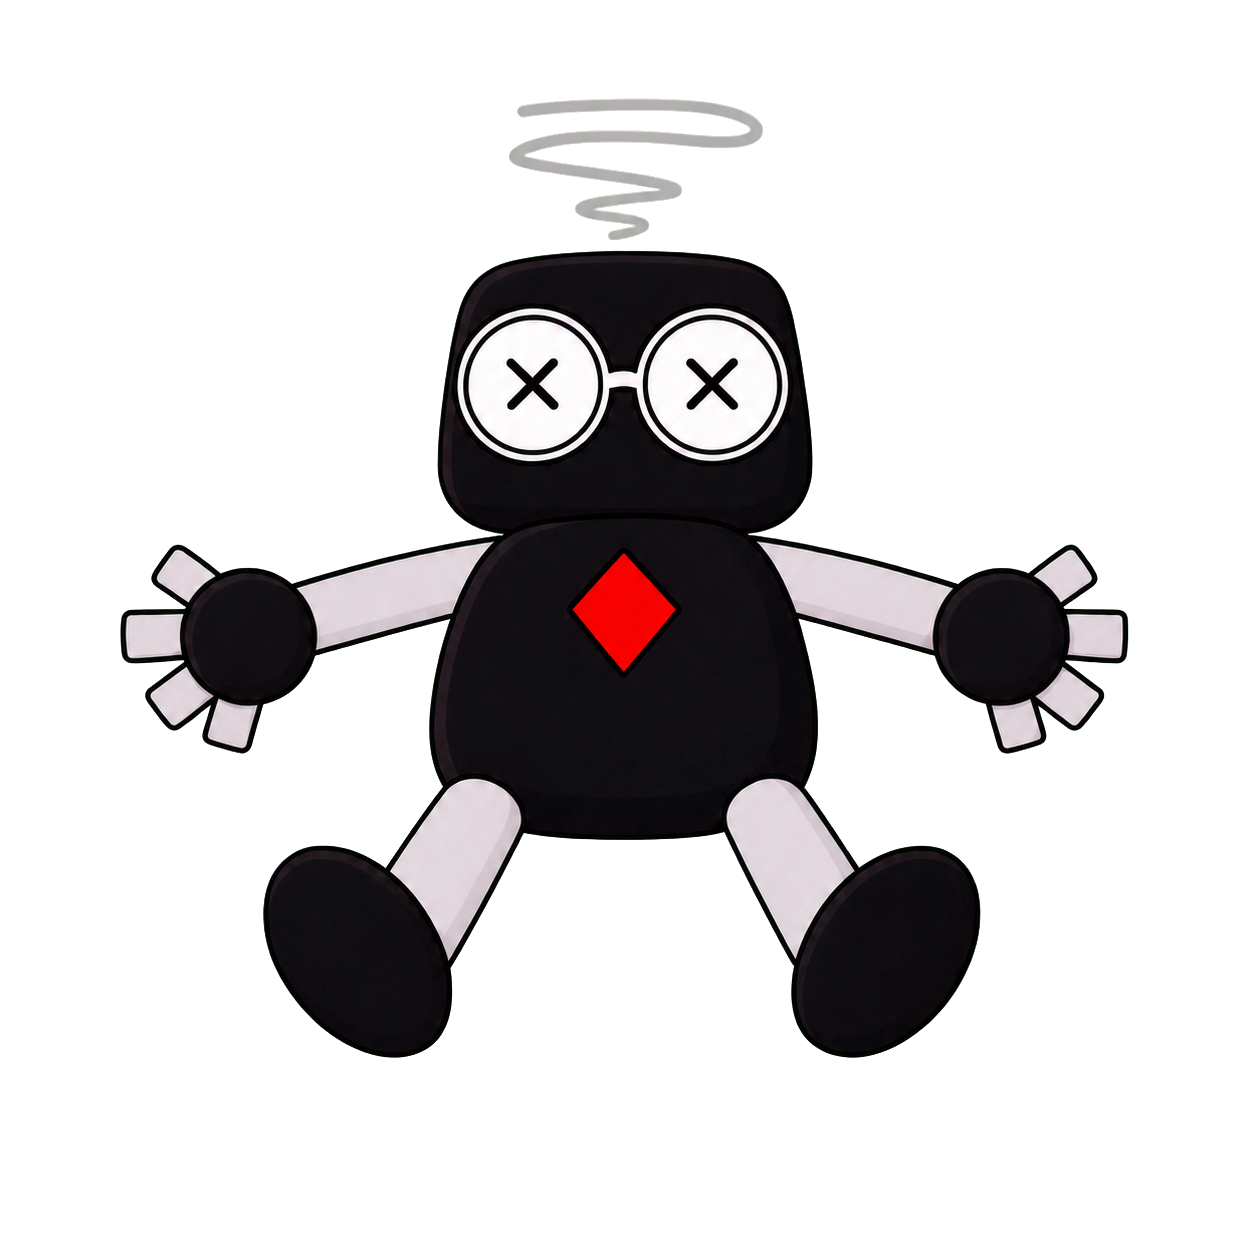
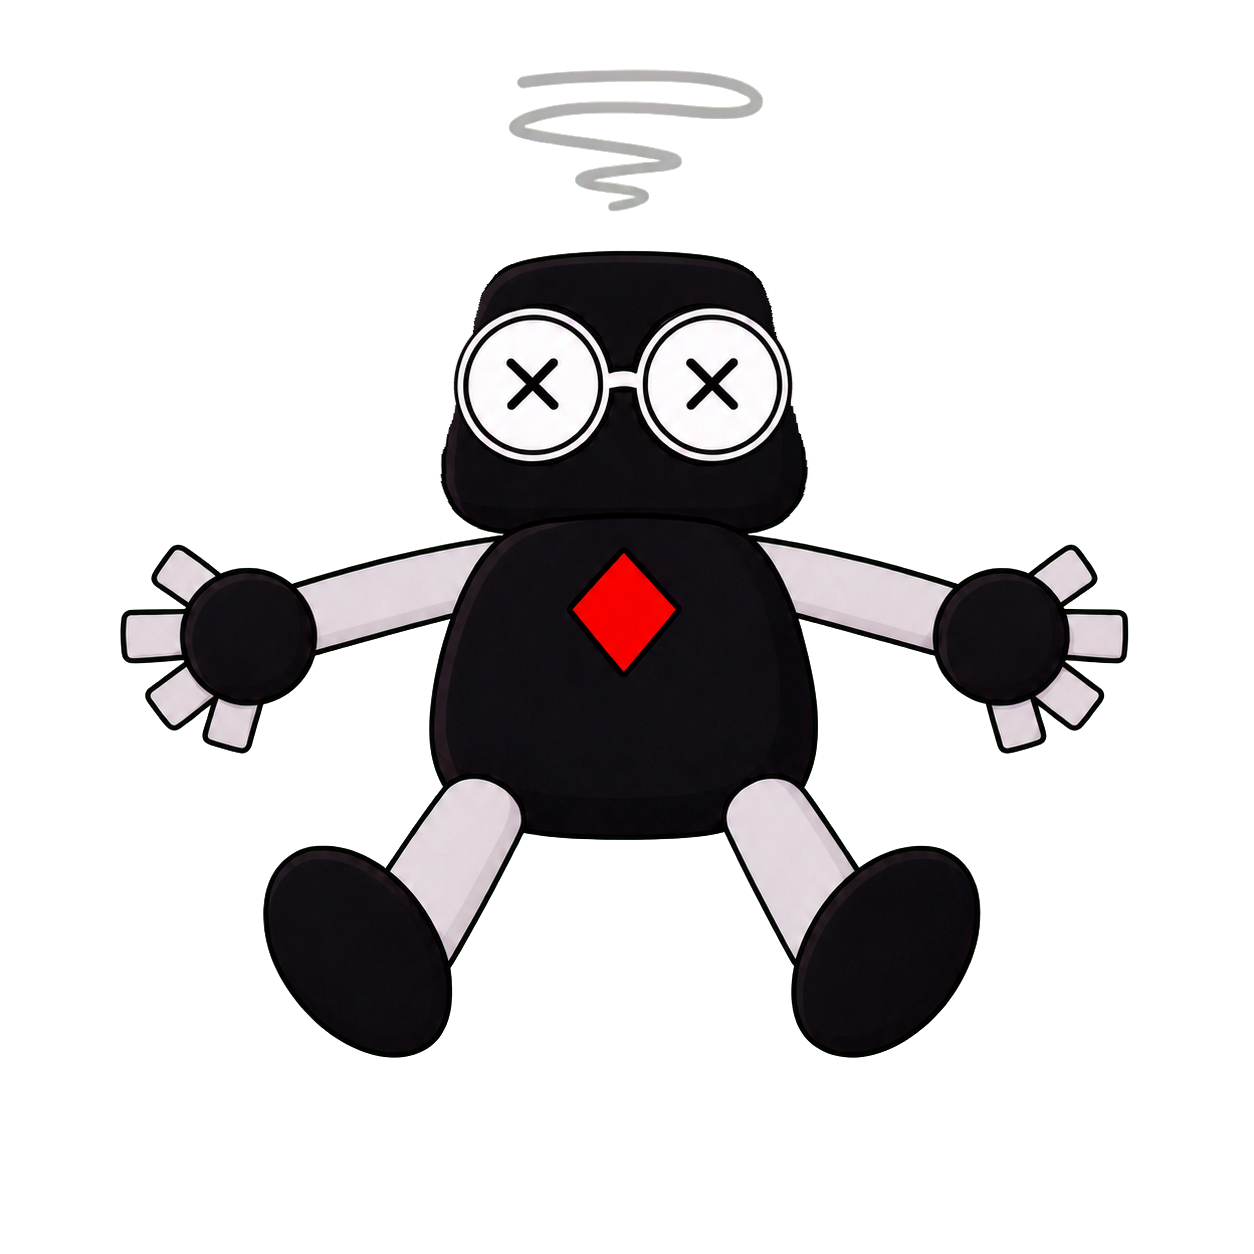
feat: refine ded sticker and generation guidance

diff --git a/docs/prompts/tkrobot-sticker-guidelines.md b/docs/prompts/tkrobot-sticker-guidelines.md
@@ -6,7 +6,7 @@ Use these rules whenever generating or editing T Krobot stickers. The locked ref
 
 - Black softened trapezoid head, with the top about 90% as wide as the bottom.
 - Black softened trapezoid body, not round, with larger rounded corners.
-- Large round white glasses with black rims.
+- Large round white glasses with black rims. Preserve their locked wide round proportions independently of the head taper: never shrink or horizontally compress the glasses to fit inside the trapezoidal head. The frames may extend beyond the head's side boundaries.
 - Smooth plain light grey tube arms and legs, around `#e1e1e1`; match the locked v11 anchor proportions: moderately slim, thicker than the too-thin v9/v10 attempts, still slimmer than the earliest baseline, and legs may be about 5% longer than the originals.
 - Hands use a round black palm blob with light grey `#e1e1e1` fingers and thumbs emerging from the blob's edge. The black part is the palm itself, not a glove wrapped around the fingers. Each hand has exactly one thumb and exactly three fingers. This is very important: do not draw four fingers plus one thumb.
 - Current hand-size anchor: use `archive/generated-iterations/v1-size-blocky-fingers/contact-sheet.png`. Keep the large rejected-v1 palm and finger scale; do not shrink toward the smaller `hand-scale-v2` rectangular batch.
@@ -33,9 +33,9 @@ Avoid 3D renders, metallic robot details, complex fingers, extra props unless re
 Use case: stylized-concept
 Asset type: T Krobot transparent chat sticker candidate, square PNG
 Primary request: Create a T Krobot sticker for "<slug>" on a perfectly flat solid #00ff00 chroma-key background for background removal.
-Subject: T Krobot, Tinkertanker company mascot: black softened trapezoid head matching the locked v11 anchor proportions, not wide or rectangular, with the top edge about 90% as wide as the bottom edge; black softened trapezoid body with larger rounded corners; head and body both using a subtle near-black-to-black gradient, plus a very thin 1px-style light grey shine line along the bottom edge of the head; large round white glasses with black rims; smooth plain light grey tube arms and smooth plain light grey tube legs around #e1e1e1, moderately slim, thicker than the too-thin v9/v10 attempts and still slimmer than the earliest baseline; hands with round black palm blobs plus light grey #e1e1e1 thumbs and fingers emerging from the blob edges; oversized black oval feet; flat red diamond chest mark; no neck.
+Subject: T Krobot, Tinkertanker company mascot: black softened trapezoid head matching the locked v11 anchor proportions, not wide or rectangular, with the top edge about 90% as wide as the bottom edge; black softened trapezoid body with larger rounded corners; head and body both using a subtle near-black-to-black gradient, plus a very thin 1px-style light grey shine line along the bottom edge of the head; large round white glasses with black rims, kept at their locked wide round proportions independently of the head taper and allowed to extend beyond the head's side boundaries; smooth plain light grey tube arms and smooth plain light grey tube legs around #e1e1e1, moderately slim, thicker than the too-thin v9/v10 attempts and still slimmer than the earliest baseline; hands with round black palm blobs plus light grey #e1e1e1 thumbs and fingers emerging from the blob edges; oversized black oval feet; flat red diamond chest mark; no neck.
 Critical hand anchor: match `archive/generated-iterations/v1-size-blocky-fingers/contact-sheet.png` for hand scale. The large rejected-v1 palm and finger size is correct; only the finger shape should be corrected into rectangular tabs. Do not shrink the fingers toward `hand-scale-v2`.
-Critical character invariants: NO mouth. NO neck. NO joints. NO segment lines. NO black lines across arms or legs. Light grey limbs must be completely plain continuous shapes with only an outer black outline. Palms must be round black blobs that fingers emerge from, not gloves wrapped around the fingers; each visible hand must have exactly three fingers plus one thumb; fingers and thumbs must be light grey #e1e1e1, large flat rectangular tabs with hard sides and flat or slightly rounded corners, not sausage-like tubes. Centre diamond must be flat red, not faceted. NO pupils by default; only use pupils for special looks such as charging, happy, and snooze lightning.
+Critical character invariants: NO mouth. NO neck. NO joints. NO segment lines. NO black lines across arms or legs. Light grey limbs must be completely plain continuous shapes with only an outer black outline. Palms must be round black blobs that fingers emerge from, not gloves wrapped around the fingers; each visible hand must have exactly three fingers plus one thumb; fingers and thumbs must be light grey #e1e1e1, large flat rectangular tabs with hard sides and flat or slightly rounded corners, not sausage-like tubes. Keep the glasses wide and round; NEVER shrink or horizontally compress them to fit the tapered head, and allow the frames to overhang the head sides. Centre diamond must be flat red, not faceted. NO pupils by default; only use pupils for special looks such as charging, happy, and snooze lightning.
 Style/medium: clean polished 2D cartoon sticker matching original T Krobot stickers; thick outer black outlines, simple flat shapes with subtle highlight only, not 3D, no metallic detail.
 Composition/framing: centred character, generous padding, no cropping. <pose and expression details>
 Chroma key: one perfectly uniform #00ff00 background, no shadows, gradients, texture, floor, or reflection. Do not use #00ff00 in the subject.

diff --git a/docs/skills/tkrobot-sticker-generation/SKILL.md b/docs/skills/tkrobot-sticker-generation/SKILL.md
@@ -23,8 +23,8 @@ Start from this compact prompt shape:
 
 ```text
 Create a T Krobot sticker for "<slug>" on a perfectly flat solid #00ff00 chroma-key background.
-T Krobot is a black softened trapezoid robot matching the locked v11 anchor proportions: the head is not wide or rectangular, the head top is about 90% as wide as the bottom edge, and the body is also trapezoidal with larger rounded corners. Head and body use a subtle near-black-to-black gradient, plus a very thin 1px-style light grey shine line along the bottom edge of the head; large round white glasses with black rims, smooth plain light grey tube arms and legs around #e1e1e1 that are moderately slim, thicker than the too-thin v9/v10 attempts and still slimmer than the earliest baseline, hands with round black palm blobs plus light grey #e1e1e1 thumbs and fingers emerging from the blob edges, oversized black oval feet, and a flat red diamond chest mark.
-No mouth. No neck. No joints. No segment lines. No black lines across arms or legs. Light grey limbs must be continuous plain shapes with only an outer black outline. Palms must be round black blobs that fingers emerge from, not gloves wrapped around the fingers; each visible hand must have exactly three fingers plus one thumb; fingers and thumbs must be light grey #e1e1e1 flat rectangular tabs with hard sides and flat or slightly rounded corners, not sausage-like tubes. No pupils by default; use pupils only for special looks such as charging, happy, and snooze lightning.
+T Krobot is a black softened trapezoid robot matching the locked v11 anchor proportions: the head is not wide or rectangular, the head top is about 90% as wide as the bottom edge, and the body is also trapezoidal with larger rounded corners. Head and body use a subtle near-black-to-black gradient, plus a very thin 1px-style light grey shine line along the bottom edge of the head; large round white glasses with black rims kept at their locked wide round proportions independently of the head taper—the glasses must not be shrunk or horizontally compressed to fit, and their frames may extend beyond the head sides—smooth plain light grey tube arms and legs around #e1e1e1 that are moderately slim, thicker than the too-thin v9/v10 attempts and still slimmer than the earliest baseline, hands with round black palm blobs plus light grey #e1e1e1 thumbs and fingers emerging from the blob edges, oversized black oval feet, and a flat red diamond chest mark.
+No mouth. No neck. No joints. No segment lines. No black lines across arms or legs. Light grey limbs must be continuous plain shapes with only an outer black outline. Palms must be round black blobs that fingers emerge from, not gloves wrapped around the fingers; each visible hand must have exactly three fingers plus one thumb; fingers and thumbs must be light grey #e1e1e1 flat rectangular tabs with hard sides and flat or slightly rounded corners, not sausage-like tubes. Keep the glasses wide and round; never compress them to fit inside the tapered head, and allow them to overhang the head sides. No pupils by default; use pupils only for special looks such as charging, happy, and snooze lightning.
 Use clean 2D cartoon sticker styling with thick black outlines, simple flat shapes, subtle highlights, expressive pose marks, generous padding, and no cropping.
 ```
 

diff --git a/AGENTS.md b/AGENTS.md
@@ -8,6 +8,7 @@ This repository stores T Krobot sticker assets for Tinkertanker. Work here is li
 
 - T Krobot is a simple black robot mascot with large white glasses, softened trapezoid head and body, smooth light grey `#e1e1e1` limbs and fingers, black palm blobs, oversized black oval feet, and a flat red diamond chest mark.
 - Use the locked v11 proportions: moderately slim limbs, no neck, head top about 90% as wide as the bottom, and a thin light grey shine line under the head to separate head and body.
+- Preserve the glasses' locked wide round proportions independently of the head taper. Do not shrink or horizontally compress the glasses to fit inside a trapezoidal head; the frames may extend beyond the head's side boundaries.
 - Hands must have exactly three fingers plus one thumb. This is very important. Do not generate four fingers plus one thumb.
 - Use `archive/generated-iterations/v1-size-blocky-fingers/contact-sheet.png` as the current hand-size anchor: keep the large rejected-v1 palm and finger scale, but use flatter rectangular-tab fingers. Do not shrink fingers toward the smaller v2 rectangular batch.
 - Fingers should read as large flat rectangular tabs with hard sides and flat or slightly rounded corners, not soft sausage-like tubes.

diff --git a/docs/skills/tkrobot-sticker-generation/references/style-guide.md b/docs/skills/tkrobot-sticker-generation/references/style-guide.md
@@ -4,7 +4,7 @@
 
 - Black softened trapezoid head, with the top about 90% as wide as the bottom.
 - Black softened trapezoid body, not round, with larger rounded corners.
-- Large round white glasses with black rims.
+- Large round white glasses with black rims. Preserve their locked wide round proportions independently of the head taper. Never shrink or horizontally compress the glasses to fit inside the trapezoidal head; the frames may extend beyond the head's side boundaries.
 - Smooth plain light grey tube arms and legs, around `#e1e1e1`; match the locked v11 anchor proportions: moderately slim, thicker than the too-thin v9/v10 attempts, still slimmer than the earliest baseline, and legs may be about 5% longer than the originals.
 - Hands use round black palm blobs with light grey `#e1e1e1` fingers and thumbs emerging from the blob's edge.
 - The black palm is the actual palm blob, not a glove wrapped around the fingers.
